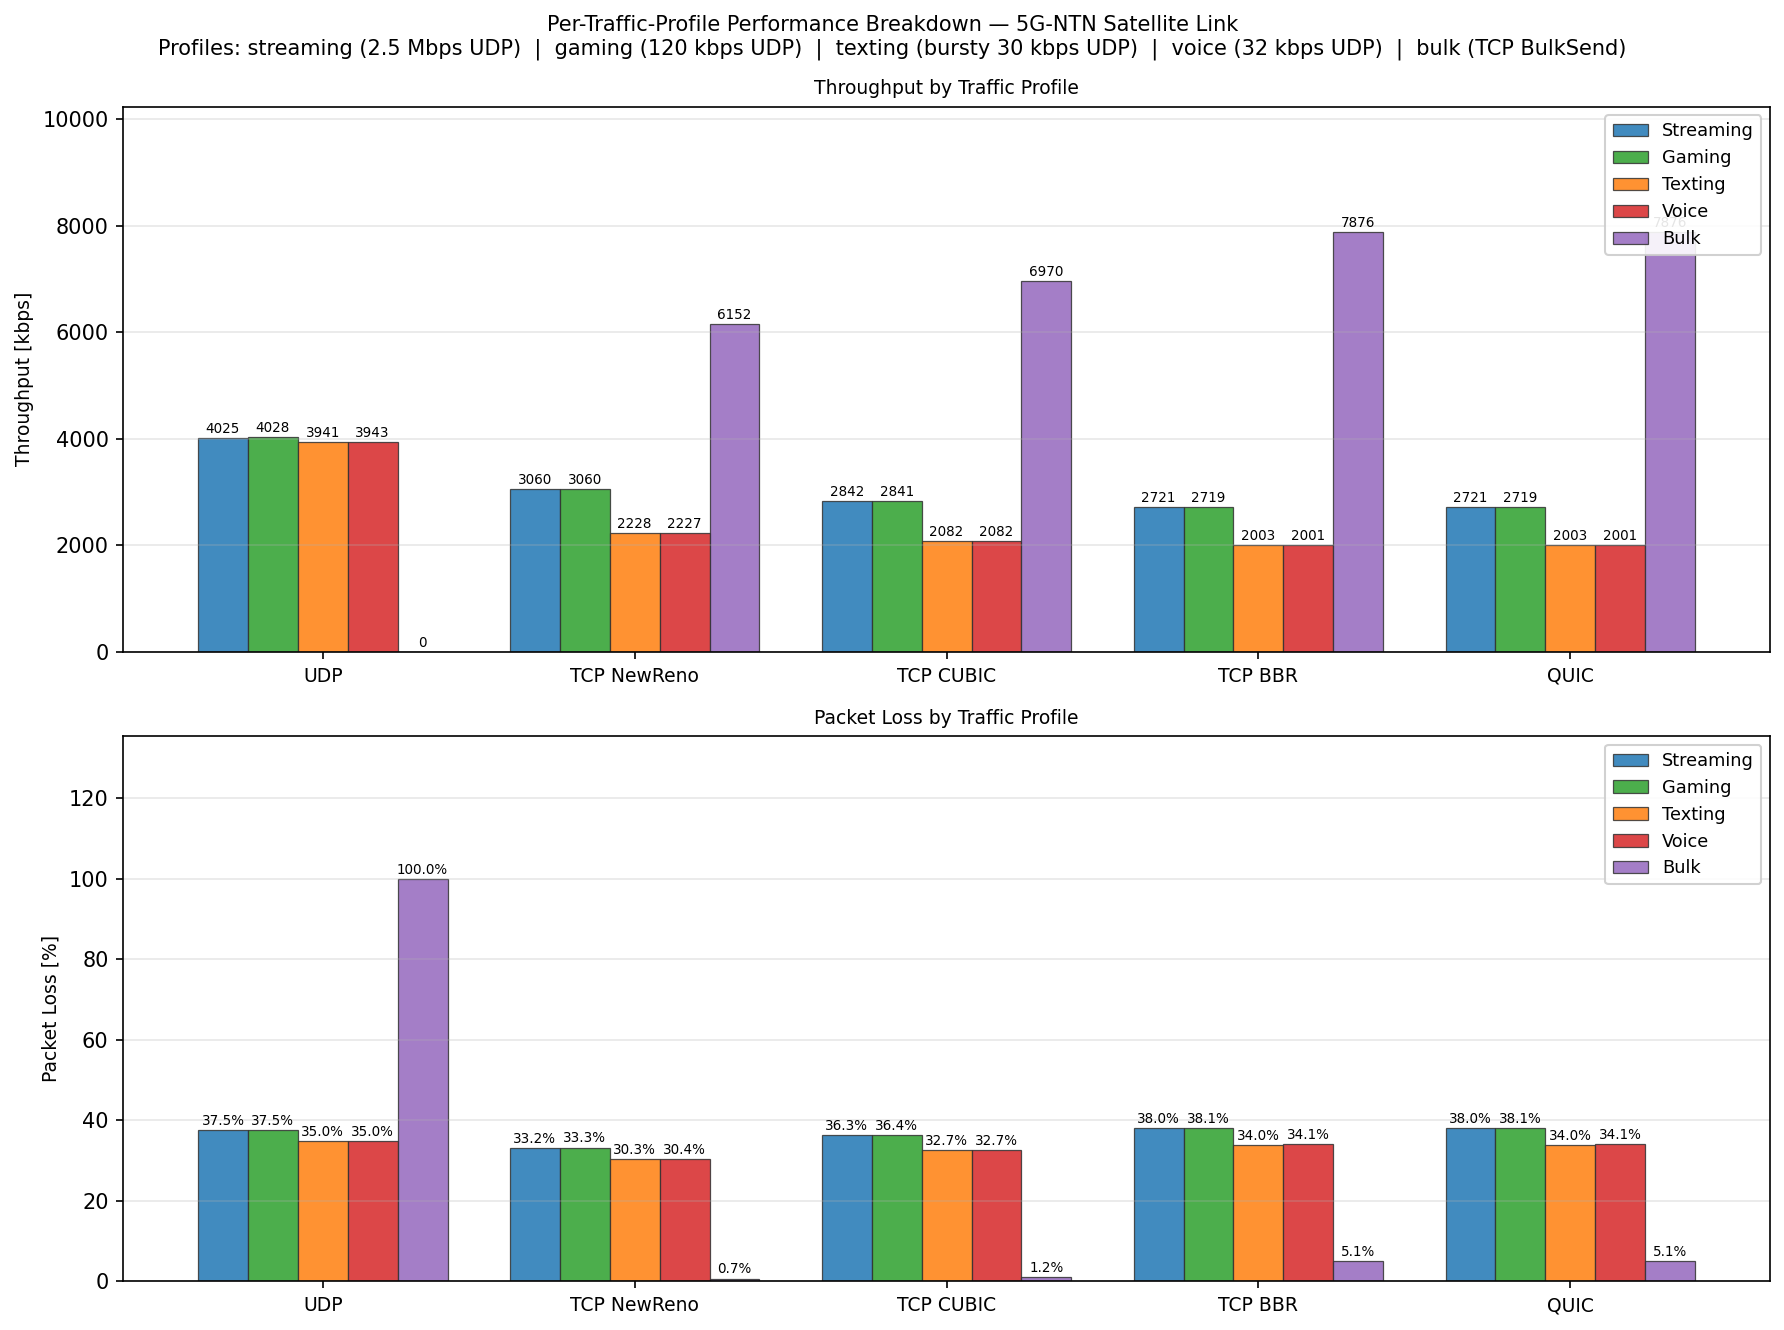
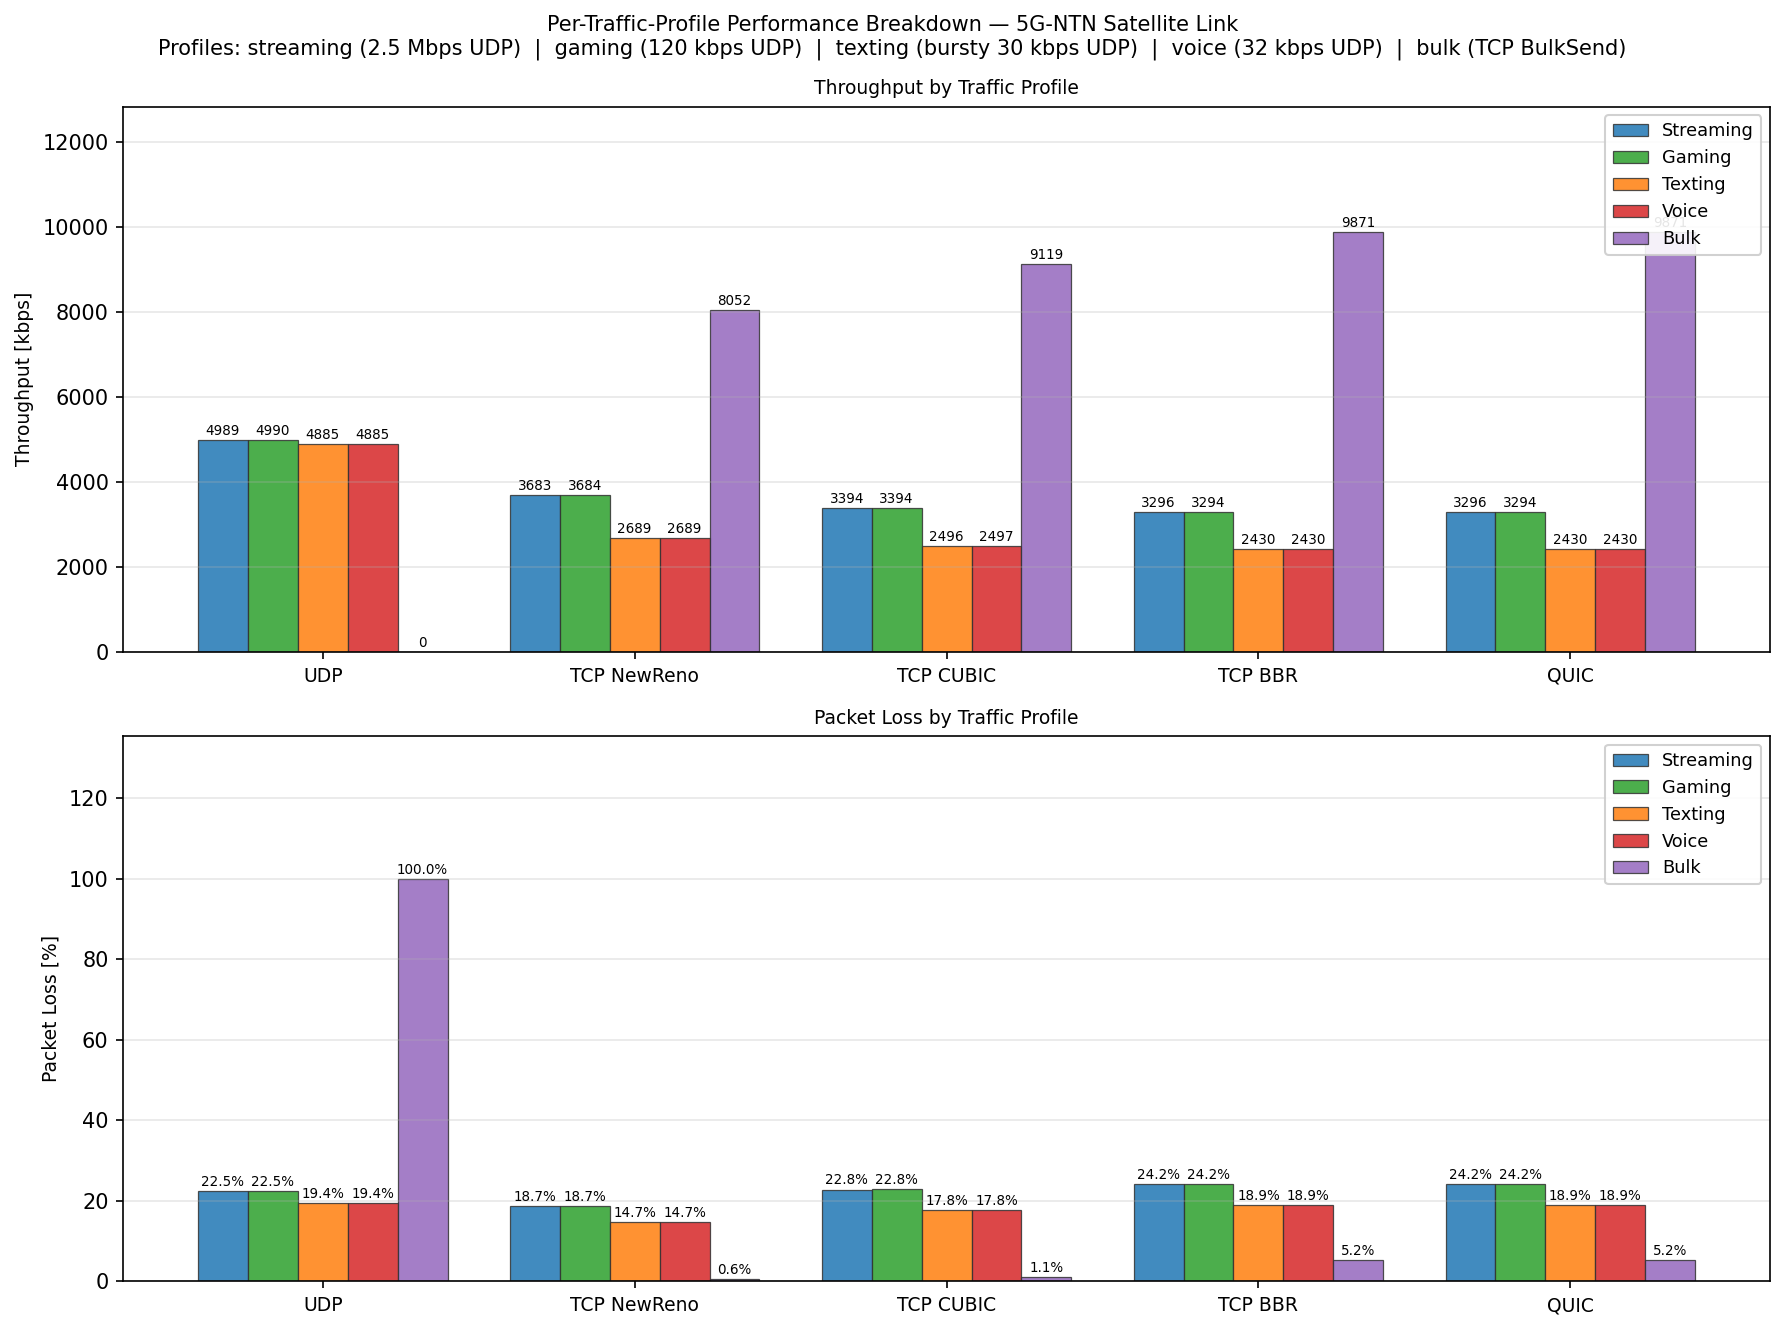
Added simulation output and updated raytracing config

diff --git a/sim/ray_tracing.py b/sim/ray_tracing.py
@@ -308,29 +308,30 @@ def _extract_channel_stats(paths, sat_id: int,
         np.sqrt((power_weights * (valid_tau - mean_tau) ** 2).sum()) * 1e9
     )
 
-    # LoS test by geometry: the earliest RT arrival must match the
-    # free-space delay between UE and proxy TX (within ~5 ns tolerance for
-    # numeric / propagation-model jitter).  This is a stricter, physically
-    # grounded criterion than the old amplitude heuristic — a weak diffracted
-    # ray arriving first would otherwise be mis-classified as LoS and give
-    # spurious K-factor values.
-    earliest_idx = int(np.argmin(valid_tau))
-    geom_dist_m  = float(np.linalg.norm(
+    # LoS detection by geometry: identify any path whose delay matches the
+    # UE↔proxy free-space delay (within ~5 ns tolerance to absorb numerical
+    # and propagation-model jitter).  Pure-amplitude heuristics mis-classify
+    # weak diffracted first arrivals as LoS and yield spurious K values.
+    geom_dist_m   = float(np.linalg.norm(
         np.asarray(sat_pos, dtype=float) - np.asarray(ue_pos, dtype=float)))
-    geom_tau_s   = geom_dist_m / 3e8
-    los_exists   = bool(abs(float(valid_tau[earliest_idx]) - geom_tau_s) < 5e-9)
+    geom_tau_s    = geom_dist_m / 3e8
+    los_mask      = np.abs(valid_tau - geom_tau_s) < 5e-9
+    los_exists    = bool(los_mask.any())
 
-    # Rician K-factor (3GPP definition): ratio of dominant (LoS) path power to
-    # the sum of diffuse (non-dominant) path powers.  Using the strongest path
-    # — not the earliest — makes K robust to weak first-arrival rays and aligns
-    # with the TR 38.811 "K = P_specular / P_diffuse" convention.  Only defined
-    # when a geometric LoS exists; NaN otherwise (NLoS → Rayleigh, no K).
-    dominant_idx      = int(np.argmax(valid_a))
-    dom_power_lin     = float(valid_a[dominant_idx] ** 2)
-    total_power_lin   = float(np.sum(valid_a ** 2))
-    scatter_power_lin = total_power_lin - dom_power_lin
-    if los_exists and scatter_power_lin > 1e-60:
-        k_factor_db = round(float(10.0 * np.log10(dom_power_lin / scatter_power_lin)), 2)
+    # Rician K-factor per TR 38.811 convention:
+    #   K = P_specular (LoS) / P_diffuse (all non-LoS multipath).
+    # The specular term is the *geometric* LoS path power — not the strongest
+    # arrival — because in dense urban, reflected rays from nearby buildings
+    # can be stronger than the direct ray, yet K is defined relative to LoS.
+    if los_exists:
+        los_power_lin     = float(np.sum(valid_a[los_mask] ** 2))
+        diffuse_power_lin = float(np.sum(valid_a[~los_mask] ** 2))
+        if diffuse_power_lin > 1e-60:
+            k_factor_db = round(
+                float(10.0 * np.log10(los_power_lin / diffuse_power_lin)), 2)
+        else:
+            # Pure-LoS, no scatter → infinite K; cap at a sensible ceiling.
+            k_factor_db = 30.0
     else:
         k_factor_db = float("nan")
 

diff --git a/config/ray_tracing.py b/config/ray_tracing.py
@@ -83,7 +83,7 @@ in the ray-tracing snapshot.
   walls are illuminated at a glancing angle, enabling reflections.
 """
 
-RT_SAT_SCENE_HEIGHT_M = 300.0
+RT_SAT_SCENE_HEIGHT_M = 1000.0
 """
 Height [m] at which the satellite transmitters are placed *within the
 Sionna RT scene* for ray tracing.
@@ -94,8 +94,11 @@ Sionna RT scene* for ray tracing.
 - The true free-space path loss over 550 km is applied analytically in
   the NS-3 link budget; only the urban multipath statistics (delay
   spread, shadow fading) are extracted from RT.
-- 300 m gives a 60–70° elevation angle over a 100 m scene radius, which
-  is geometrically consistent with SAT_HANDOVER_ELEVATION_DEG.
+- 1000 m places the proxy well above Munich buildings (~30–100 m tall)
+  so reflections from nearby façades carry a meaningful path-length
+  penalty vs the direct ray — otherwise near-field reflections rival
+  the LoS power and Rician K collapses toward 0 dB (vs the 9–15 dB band
+  expected from 3GPP TR 38.811 Table 6.7.2-3).
 """
 
 RT_TX_POWER_DBM = 44.0
